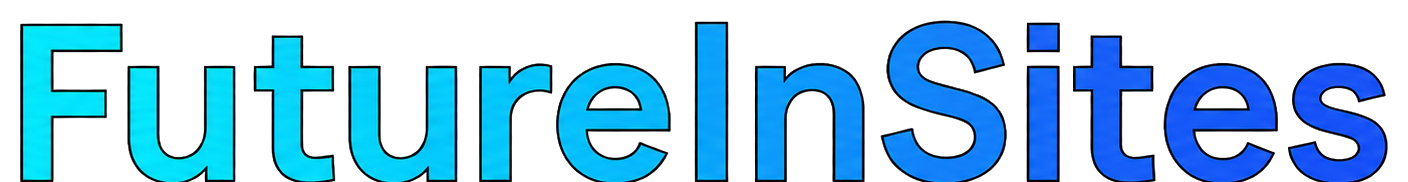
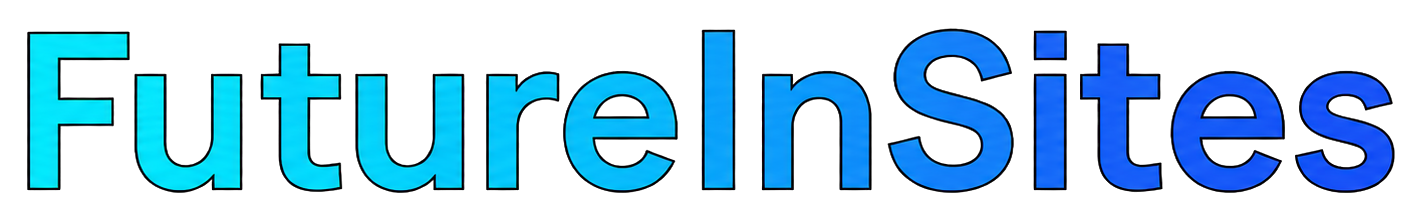
update

diff --git a/index.html b/index.html
@@ -76,9 +76,9 @@
       overflow: visible;
     }
 
-    /* Height-based sizing: predictable rendered size, no width% rounding issues */
+    /* Height accounts for 16px bottom padding in PNG — letters render at ~22px */
     .nav-wordmark-img {
-      height: 22px;
+      height: 27px;
       width: auto;
       display: block;
       flex-shrink: 0;
@@ -335,55 +335,6 @@
       height: 22px;
       background: #2563EB;
     }
-
-    /* ─── BENEFIT TILES (LIGHT) ─── */
-    .benefit-tiles {
-      background: var(--bg-alt);
-      padding: 1.5rem 2rem;
-      border-top: 1px solid var(--border);
-      border-bottom: 1px solid var(--border);
-    }
-
-    .benefit-tiles-inner {
-      max-width: 1300px;
-      margin: 0 auto;
-      display: grid;
-      grid-template-columns: repeat(4, 1fr);
-      gap: 1rem;
-    }
-
-    @media (max-width: 860px) { .benefit-tiles-inner { grid-template-columns: repeat(2, 1fr); } }
-    @media (max-width: 480px) { .benefit-tiles-inner { grid-template-columns: 1fr; } }
-
-    .benefit-tile {
-      padding: 1.75rem 1.5rem;
-      display: flex;
-      align-items: flex-start;
-      gap: 1rem;
-      background: #FFFFFF;
-      border: 1px solid var(--border);
-      border-radius: 12px;
-      transition: box-shadow 0.2s, transform 0.2s;
-    }
-    .benefit-tile:hover { box-shadow: 0 4px 16px rgba(0,0,0,0.08); transform: translateY(-1px); }
-
-    .benefit-icon-wrap {
-      width: 52px;
-      height: 52px;
-      border-radius: 50%;
-      display: flex;
-      align-items: center;
-      justify-content: center;
-      flex-shrink: 0;
-    }
-    .benefit-icon-wrap.blue-lt   { background: #EFF6FF; color: #2563EB; }
-    .benefit-icon-wrap.green-lt  { background: #F0FDF4; color: #16A34A; }
-    .benefit-icon-wrap.orange-lt { background: #FFF7ED; color: #EA580C; }
-    .benefit-icon-wrap.blue-md   { background: #DBEAFE; color: #1D4ED8; }
-
-    .benefit-tile-text {}
-    .benefit-tile-title { font-size: 0.92rem; font-weight: 700; color: var(--dark); margin-bottom: 0.3rem; }
-    .benefit-tile-desc { font-size: 0.8rem; color: var(--muted); line-height: 1.6; }
 
     /* ─── 3-STEP PROCESS (HORIZONTAL) ─── */
     .process-section {
@@ -2050,52 +2001,6 @@
   </div>
 
   <!-- BENEFIT TILES -->
-  <div class="benefit-tiles">
-    <div class="benefit-tiles-inner">
-
-      <div class="benefit-tile">
-        <div class="benefit-icon-wrap blue-lt">
-          <svg width="24" height="24" viewBox="0 0 24 24" fill="none" stroke="currentColor" stroke-width="2" stroke-linecap="round" stroke-linejoin="round"><circle cx="12" cy="12" r="10"/><polyline points="12 6 12 12 16 14"/></svg>
-        </div>
-        <div class="benefit-tile-text">
-          <div class="benefit-tile-title">Faster quotes</div>
-          <div class="benefit-tile-desc">Create accurate, professional quotes in minutes, not hours.</div>
-        </div>
-      </div>
-
-      <div class="benefit-tile">
-        <div class="benefit-icon-wrap green-lt">
-          <svg width="24" height="24" viewBox="0 0 24 24" fill="none" stroke="currentColor" stroke-width="2" stroke-linecap="round" stroke-linejoin="round"><path d="M20 21v-2a4 4 0 0 0-4-4H8a4 4 0 0 0-4 4v2"/><circle cx="12" cy="7" r="4"/></svg>
-        </div>
-        <div class="benefit-tile-text">
-          <div class="benefit-tile-title">Better follow-up</div>
-          <div class="benefit-tile-desc">Never miss a follow-up. Build stronger customer relationships.</div>
-        </div>
-      </div>
-
-      <div class="benefit-tile">
-        <div class="benefit-icon-wrap orange-lt">
-          <svg width="24" height="24" viewBox="0 0 24 24" fill="none" stroke="currentColor" stroke-width="2" stroke-linecap="round" stroke-linejoin="round"><path d="M16 4h2a2 2 0 0 1 2 2v14a2 2 0 0 1-2 2H6a2 2 0 0 1-2-2V6a2 2 0 0 1 2-2h2"/><rect x="8" y="2" width="8" height="4" rx="1" ry="1"/><line x1="9" y1="12" x2="15" y2="12"/><line x1="9" y1="16" x2="12" y2="16"/></svg>
-        </div>
-        <div class="benefit-tile-text">
-          <div class="benefit-tile-title">Less admin</div>
-          <div class="benefit-tile-desc">Automate routine tasks so your team can focus on high-value work.</div>
-        </div>
-      </div>
-
-      <div class="benefit-tile">
-        <div class="benefit-icon-wrap blue-md">
-          <svg width="24" height="24" viewBox="0 0 24 24" fill="none" stroke="currentColor" stroke-width="2" stroke-linecap="round" stroke-linejoin="round"><line x1="18" y1="20" x2="18" y2="10"/><line x1="12" y1="20" x2="12" y2="4"/><line x1="6" y1="20" x2="6" y2="14"/></svg>
-        </div>
-        <div class="benefit-tile-text">
-          <div class="benefit-tile-title">Clearer reporting</div>
-          <div class="benefit-tile-desc">See what's happening across your business, week by week.</div>
-        </div>
-      </div>
-
-    </div>
-  </div>
-
   <!-- 3-STEP PROCESS (HORIZONTAL) -->
   <div class="process-section" id="process">
     <div class="process-inner">
